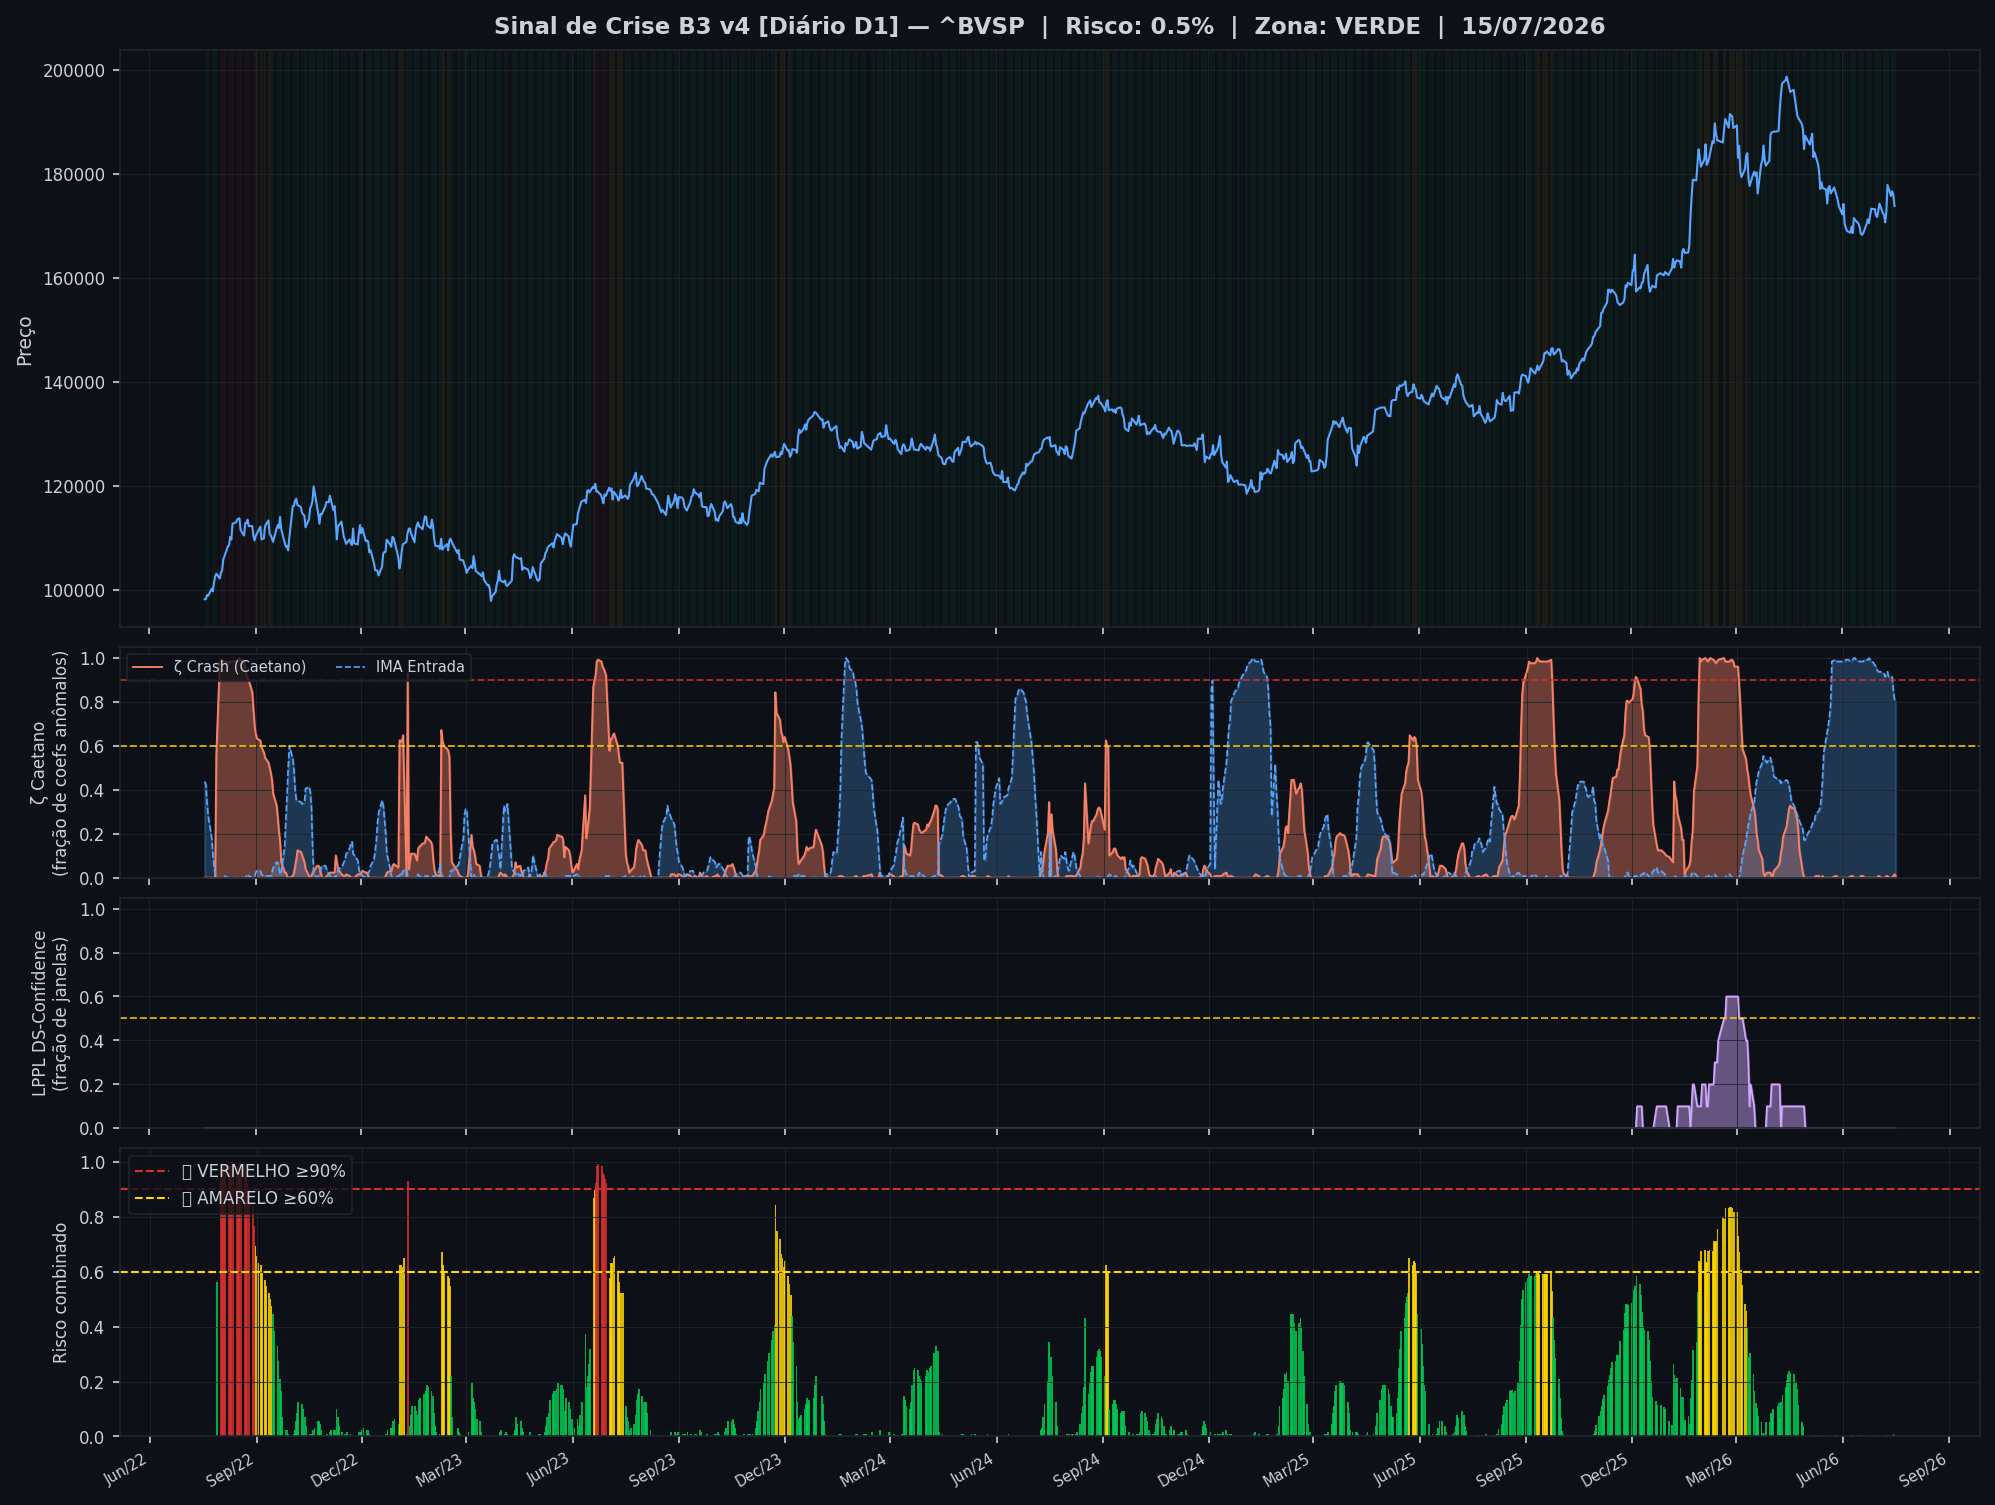
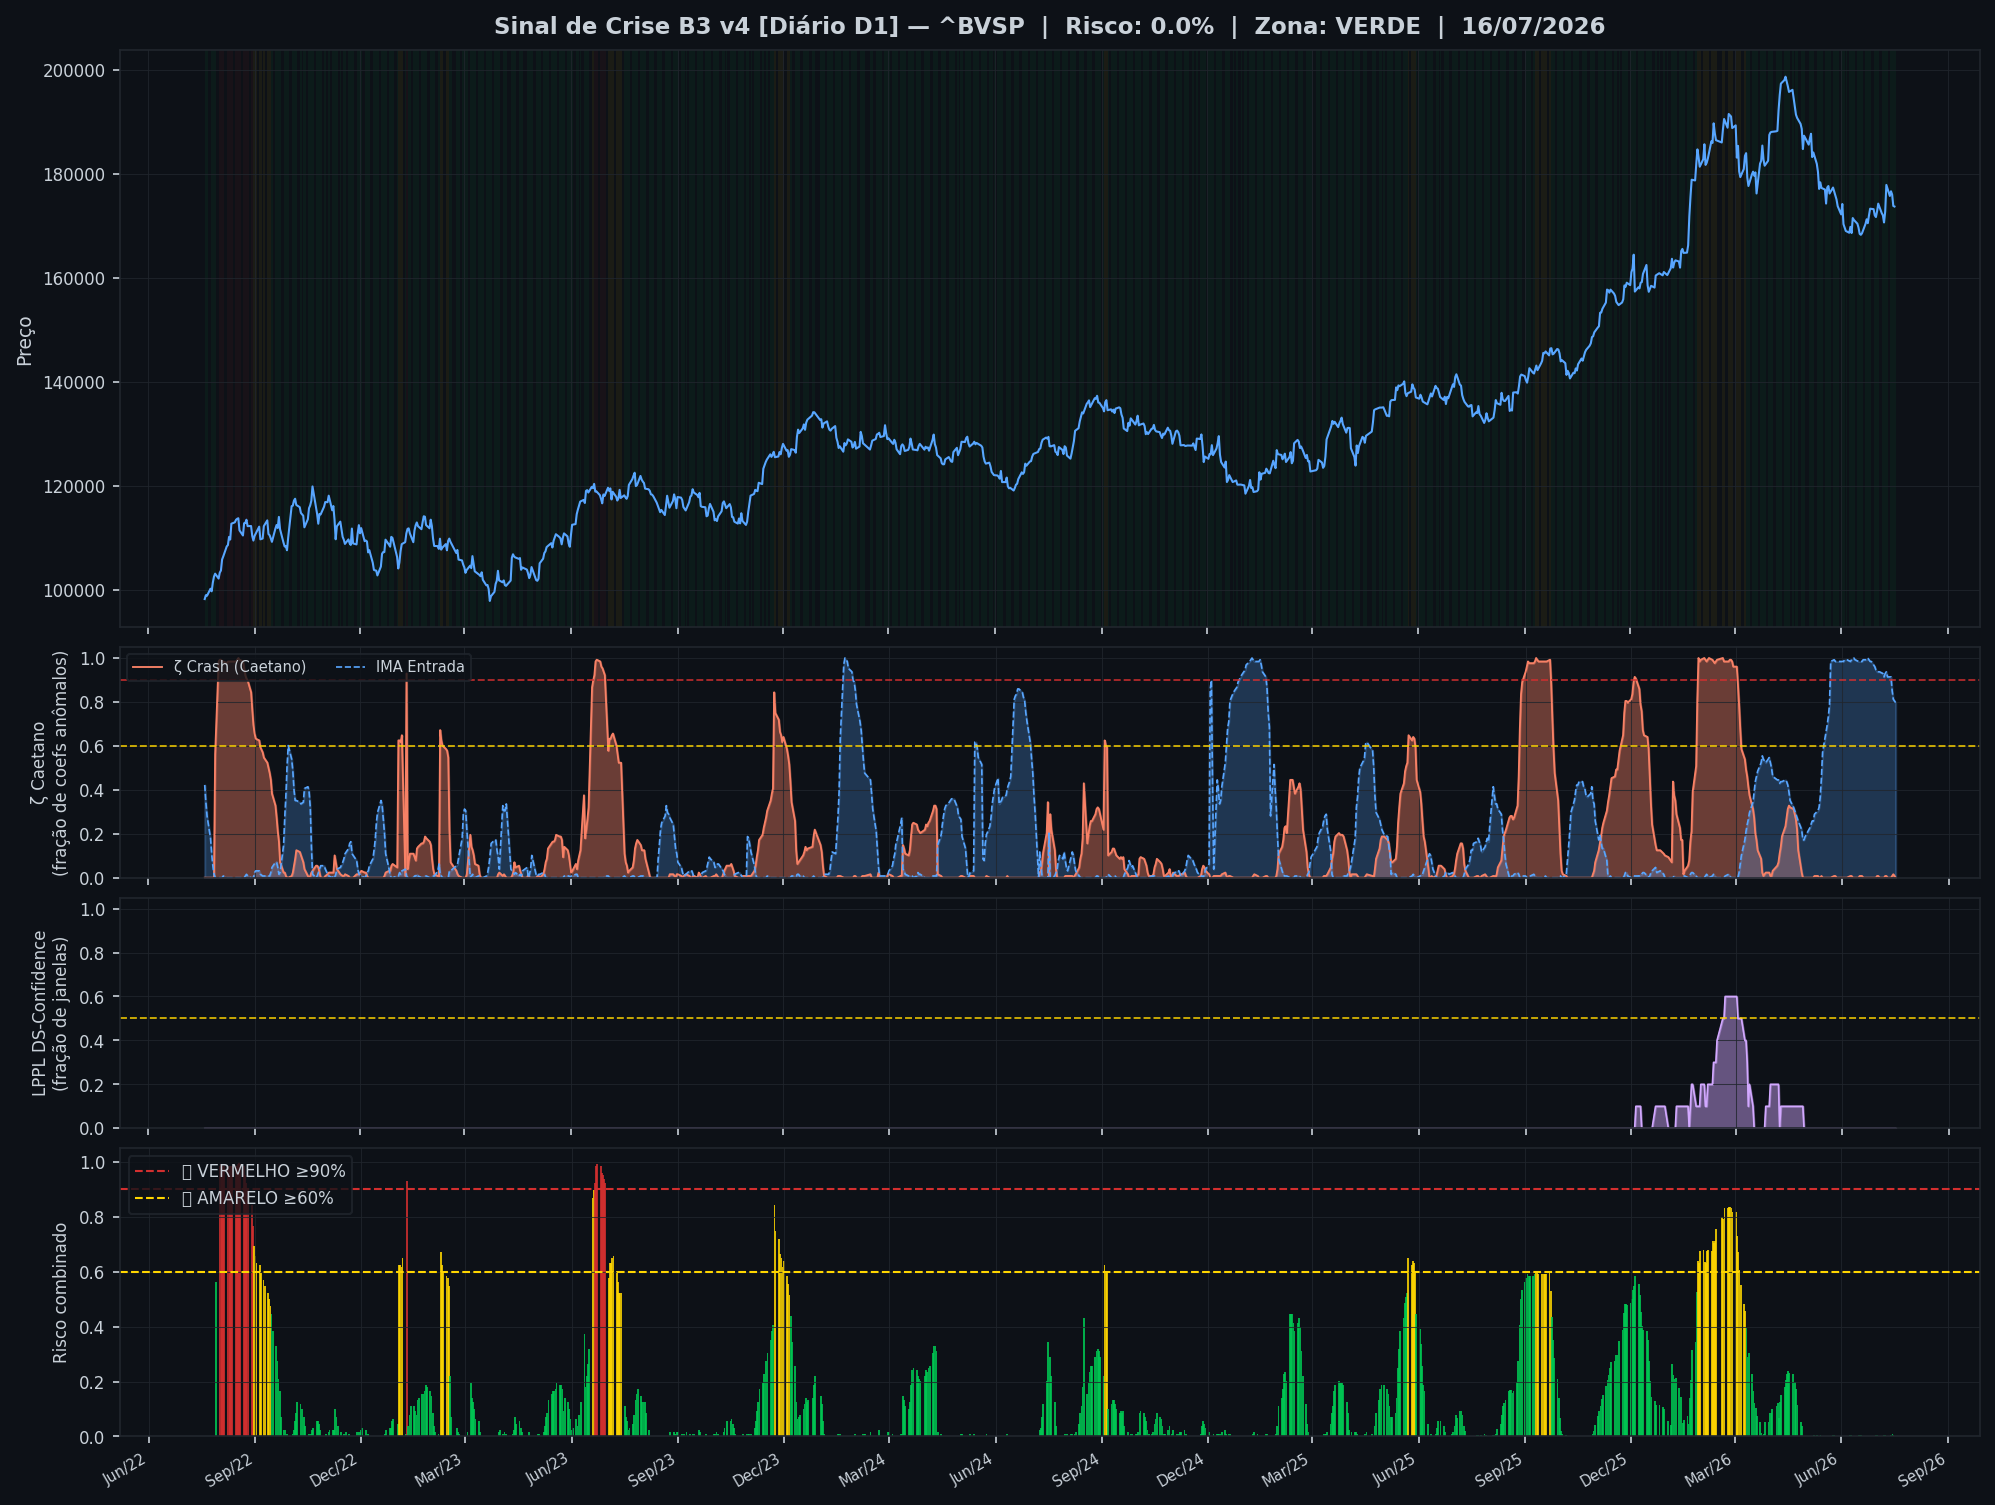
🤖 Auto: Sinal 17/07/2026 19:00

diff --git a/content/diario/2026-07-16.md b/content/diario/2026-07-16.md
@@ -1,0 +1,105 @@
+---
+title: "🟢 Diário 16/07/2026 — VERDE"
+date: 2026-07-17
+tags: [diario]
+---
+
+> [!success] 🟢 **VERDE** — Risco 0% · ＝ -0 p.p. vs leitura anterior
+> `░░░░░░░░░░░░░░░░░░░░`
+> Mercado sem sinais relevantes de estresse.
+
+
+| Indicador | Valor |
+|---|---|
+| 🔴 ζ Crash — severidade da queda em curso | **0%** |
+| 🔵 ζ Entrada — estrutura de fundo | 80% |
+| 🫧 LPPL DS-Confidence | 0% |
+| 📊 Ibovespa | 173.714 pts |
+
+![Gráfico do sinal](../graficos/sinal_diario.png)
+
+## Últimos 30 pregões
+
+| Data | Zona | Risco | IMA Crash | Entrada | LPPL |
+|---|---|---|---|---|---|
+| 2026-07-16 21:00 | 🟢 VERDE | **0%** | 0% | 80% | 0% |
+| 2026-07-15 21:00 | 🟢 VERDE | **0%** | 1% | 80% | 0% |
+| 2026-07-14 21:00 | 🟢 VERDE | **1%** | 2% | 81% | 0% |
+| 2026-07-13 21:00 | 🟢 VERDE | **0%** | 1% | 85% | 0% |
+| 2026-07-12 21:00 | 🟢 VERDE | **0%** | 0% | 91% | 0% |
+| 2026-07-09 21:00 | 🟢 VERDE | **0%** | 0% | 91% | 0% |
+| 2026-07-08 21:00 | 🟢 VERDE | **0%** | 1% | 94% | 0% |
+| 2026-07-07 21:00 | 🟢 VERDE | **0%** | 1% | 93% | 0% |
+| 2026-07-06 21:00 | 🟢 VERDE | **0%** | 0% | 91% | 0% |
+| 2026-07-05 21:00 | 🟢 VERDE | **0%** | 0% | 93% | 0% |
+| 2026-07-02 21:00 | 🟢 VERDE | **0%** | 0% | 94% | 0% |
+| 2026-07-01 21:00 | 🟢 VERDE | **0%** | 1% | 94% | 0% |
+| 2026-06-30 21:00 | 🟢 VERDE | **0%** | 1% | 94% | 0% |
+| 2026-06-29 21:00 | 🟢 VERDE | **0%** | 0% | 95% | 0% |
+| 2026-06-28 21:00 | 🟢 VERDE | **0%** | 0% | 96% | 0% |
+| 2026-06-25 21:00 | 🟢 VERDE | **0%** | 0% | 98% | 0% |
+| 2026-06-24 21:00 | 🟢 VERDE | **0%** | 0% | 98% | 0% |
+| 2026-06-23 21:00 | 🟢 VERDE | **0%** | 0% | 99% | 0% |
+| 2026-06-22 21:00 | 🟢 VERDE | **0%** | 0% | 100% | 0% |
+| 2026-06-21 21:00 | 🟢 VERDE | **0%** | 0% | 99% | 0% |
+| 2026-06-18 21:00 | 🟢 VERDE | **0%** | 0% | 99% | 0% |
+| 2026-06-17 21:00 | 🟢 VERDE | **0%** | 1% | 98% | 0% |
+| 2026-06-16 21:00 | 🟢 VERDE | **0%** | 1% | 98% | 0% |
+| 2026-06-15 21:00 | 🟢 VERDE | **0%** | 1% | 98% | 0% |
+| 2026-06-14 21:00 | 🟢 VERDE | **0%** | 0% | 98% | 0% |
+| 2026-06-11 21:00 | 🟢 VERDE | **0%** | 0% | 99% | 0% |
+| 2026-06-10 21:00 | 🟢 VERDE | **0%** | 0% | 100% | 0% |
+| 2026-06-09 21:00 | 🟢 VERDE | **0%** | 0% | 100% | 0% |
+| 2026-06-08 21:00 | 🟢 VERDE | **0%** | 1% | 99% | 0% |
+| 2026-06-07 21:00 | 🟢 VERDE | **0%** | 1% | 98% | 0% |
+
+## Monitor Multi-Ativo
+
+**0% dos ativos em tensão** (0🔴 0🟡) — quanto mais ativos disparam juntos, mais confiável o sinal.
+
+| Zona | Ativo | Setor | IMA Crash | IMA Entrada |
+|---|---|---|---|---|
+| 🟢 | **VALE** | Mineração | 0.0% | 42.2% |
+| 🟢 | **ITAUUNIBANCO** | Financeiro | 0.0% | 42.2% |
+| 🟢 | **PETROBRAS** | Petróleo | 0.0% | 42.2% |
+| 🟢 | **AXIA ENERGIA** | Energia | 0.0% | 42.2% |
+| 🟢 | **PETROBRAS** | Petróleo | 0.0% | 42.2% |
+| 🟢 | **BRADESCO** | Financeiro | 0.0% | 42.2% |
+| 🟢 | **SABESP** | Saneamento | 0.0% | 42.2% |
+| 🟢 | **ITAUSA** | Financeiro | 0.0% | 42.2% |
+| 🟢 | **B3** | Financeiro | 0.0% | 42.2% |
+| 🟢 | **BTGP BANCO** | Financeiro | 0.0% | 42.2% |
+| 🟢 | **AMBEV S/A** | Consumo | 0.0% | 42.2% |
+| 🟢 | **WEG** | Industrial | 0.0% | 42.2% |
+| 🟢 | **BRASIL** | Financeiro | 0.0% | 42.2% |
+| 🟢 | **EMBRAER** | Outros | 0.0% | 42.2% |
+| 🟢 | **EQUATORIAL** | Energia | 0.0% | 42.2% |
+| 🟢 | **ENEVA** | Energia | 0.0% | 42.2% |
+| 🟢 | **COPEL** | Energia | 0.0% | 42.2% |
+| 🟢 | **PRIO** | Petróleo | 0.0% | 42.2% |
+| 🟢 | **VIBRA** | Energia | 0.0% | 42.2% |
+| 🟢 | **REDE D OR** | Saúde | 0.0% | 42.2% |
+| 🟢 | **LOCALIZA** | Aluguel | 0.0% | 42.2% |
+| 🟢 | **ULTRAPAR** | Outros | 0.0% | 42.2% |
+| 🟢 | **GERDAU** | Siderurgia | 0.0% | 42.2% |
+| 🟢 | **SUZANO S.A.** | Papel/Celulose | 0.0% | 42.2% |
+| 🟢 | **BBSEGURIDADE** | Financeiro | 0.0% | 42.2% |
+| 🟢 | **TELEF BRASIL** | Outros | 0.0% | 42.2% |
+| 🟢 | **USD/BRL** | Câmbio | 0.0% | 24.2% |
+
+![Monitor multi-ativo](../graficos/multi_diario.png)
+
+*Página atualizada em 17/07/2026 19:00 BRT (leitura da barra de 2026-07-16 BRT).*
+
+> [!info]- Como interpretar (clique para expandir)
+> - **ζ Crash**: fração dos coeficientes wavelet acima do corte (Caetano & Yoneyama 2009). Escala absoluta: ζ=0,90 = 90% dos coeficientes anômalos — historicamente, quedas com ζ≥0,90 foram mais fundas e mais longas. **Mede a severidade do movimento em curso, não prevê o início da queda.**
+> - **ζ Entrada**: coeficientes negativos além do corte — estrutura de fundo, possível região de compra.
+> - **LPPL DS-Confidence**: fração de janelas (60–504 pregões) em que o modelo de bolha de Sornette produz um ajuste válido. 30% já é relevante; acima de 50% é forte evidência de estrutura de bolha.
+> - **Zonas com histerese**: o sinal só muda de zona ao cruzar o limiar de entrada, e só volta ao cruzar o de saída — evita flip-flop diário.
+
+
+---
+*Sinal de Crise B3 v4 · IMA Wavelet ([Caetano & Yoneyama, Physica-A 2007](https://doi.org/10.1016/j.physa.2007.03.054)) + LPPL DS-Confidence (Sornette, ETH-Zurich) · [Metodologia](metodologia) · [Histórico](historico)*
+
+> [!quote]- Aviso
+> Estudo acadêmico. Não constitui recomendação de investimento.

diff --git a/content/index.md b/content/index.md
@@ -8,9 +8,9 @@ tags: [home]
 
 Monitoramento diário e intraday do Ibovespa — **IMA Wavelet** (Prof. Marco Antonio Leonel Caetano, ITA/INSPER) + **LPPL DS-Confidence** (Prof. Didier Sornette, ETH-Zurich).
 
-*Última atualização: 17/07/2026 17:30 BRT · ^BVSP · Intraday 15min · v4*
+*Última atualização: 17/07/2026 19:00 BRT · ^BVSP · Diário D1 · v4*
 
-> [!success] 🟢 **VERDE** — Risco 0% · ＝ +0 p.p. vs leitura anterior
+> [!success] 🟢 **VERDE** — Risco 0% · ＝ -0 p.p. vs leitura anterior
 > `░░░░░░░░░░░░░░░░░░░░`
 > Mercado sem sinais relevantes de estresse.
 
@@ -18,9 +18,9 @@ Monitoramento diário e intraday do Ibovespa — **IMA Wavelet** (Prof. Marco An
 | Indicador | Valor |
 |---|---|
 | 🔴 ζ Crash — severidade da queda em curso | **0%** |
-| 🔵 ζ Entrada — estrutura de fundo | 16% |
+| 🔵 ζ Entrada — estrutura de fundo | 80% |
 | 🫧 LPPL DS-Confidence | 0% |
-| 📊 Ibovespa | 173.750 pts |
+| 📊 Ibovespa | 173.714 pts |
 
 **Multi-ativo:** 0% em tensão (0🔴 0🟡 de 27 ativos)
 
@@ -32,8 +32,13 @@ Monitoramento diário e intraday do Ibovespa — **IMA Wavelet** (Prof. Marco An
 
 | Data | Zona | Risco | IMA | LPPL |
 |---|---|---|---|---|
-| [17 Jul 2026](diario/2026-07-17) | 🟢 VERDE | **0%** | 0% | 0% |
 | [16 Jul 2026](diario/2026-07-16) | 🟢 VERDE | **0%** | 0% | 0% |
+| [15 Jul 2026](diario/2026-07-15) | 🟢 VERDE | **0%** | 1% | 0% |
+| [14 Jul 2026](diario/2026-07-14) | 🟢 VERDE | **1%** | 2% | 0% |
+| [13 Jul 2026](diario/2026-07-13) | 🟢 VERDE | **0%** | 1% | 0% |
+| [12 Jul 2026](diario/2026-07-12) | 🟢 VERDE | **0%** | 0% | 0% |
+| [09 Jul 2026](diario/2026-07-09) | 🟢 VERDE | **0%** | 0% | 0% |
+| [08 Jul 2026](diario/2026-07-08) | 🟢 VERDE | **0%** | 1% | 0% |
 
 ## Navegação
 

diff --git a/content/historico.md b/content/historico.md
@@ -7,6 +7,7 @@ tags: [historico]
 
 | Data | Modo | Zona | Risco | IMA | LPPL |
 |---|---|---|---|---|---|
+| 2026-07-16 | diario | 🟢 VERDE | 0% | 0% | 0% |
 | 2026-07-17 16:45 | intraday | 🟢 VERDE | 0% | 0% | 0% |
 | 2026-07-17 16:30 | intraday | 🟢 VERDE | 0% | 0% | 0% |
 | 2026-07-17 16:15 | intraday | 🟢 VERDE | 0% | 0% | 0% |
